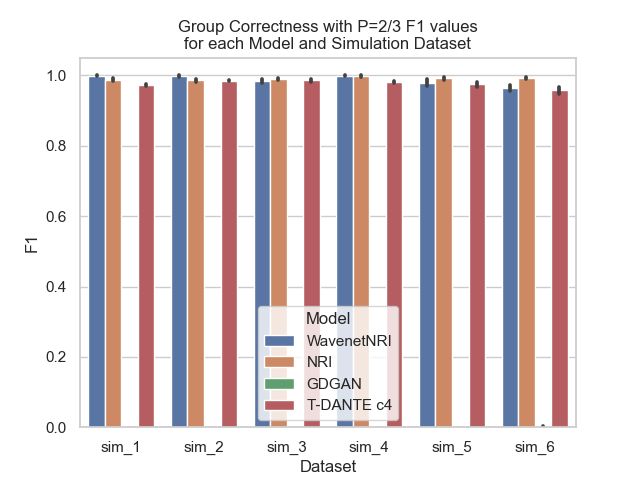
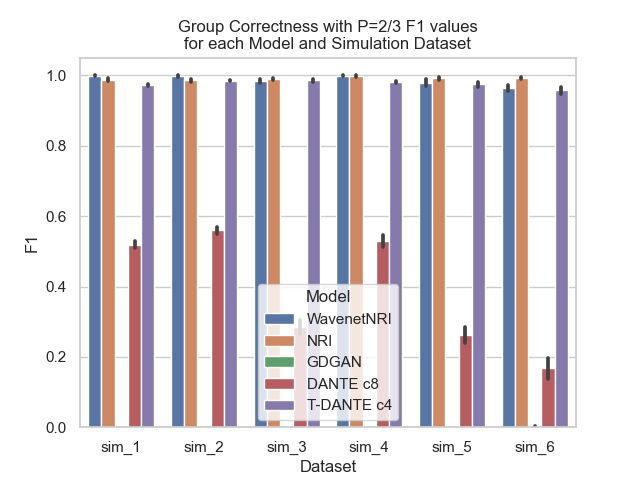
updated latex tables + pngs

diff --git a/models/plotter.py b/models/plotter.py
@@ -212,7 +212,7 @@ if __name__ == '__main__':
     sim_nri_results = []
     sim_nc_results = []
     sim_nc_gd_results = []
-    # sim_dante_results = []
+    sim_dante_results = []
     sim_tdante_results = []
     sim_tdante_gd_results = []
 
@@ -243,9 +243,9 @@ if __name__ == '__main__':
                     ((dataset, frames_num, agents_num), collect_results(results_path_gd, 'e150_nc', average=False)))
 
     for dataset in sim_datasets:
-        # sim_dante_results.append((
-        #     (dataset, 1, 10),
-        #     collect_sim_results('./results/{}_shifted_1_{}'.format(dataset, 10), 'e50', average=False)))
+        sim_dante_results.append((
+            (dataset, 1, 10),
+            collect_sim_results('./results/{}_shifted_1_{}'.format(dataset, 10), 'e50', average=False)))
         for agents_num in [6, 10]:
             frames_num = 49
             if dataset in ['sim_4', 'sim_5', 'sim_6']:
@@ -286,7 +286,7 @@ if __name__ == '__main__':
     sim_gdgan_results = create_nri_df(sim_gdgan_results, 'gdgan')
     sim_nc_results = create_df(sim_nc_results)
     sim_nc_gd_results = create_df(sim_nc_gd_results)
-    # sim_dante_results = create_df(sim_dante_results)
+    sim_dante_results = create_df(sim_dante_results)
     sim_tdante_results = create_df(sim_tdante_results)
     sim_tdante_gd_results = create_df(sim_tdante_gd_results)
 
@@ -304,7 +304,7 @@ if __name__ == '__main__':
     sim_gdgan_results = modify_sim_df(sim_gdgan_results, name='GDGAN', fix_datasets=True, suffix='gdgan')
     sim_nc_results = modify_sim_df(sim_nc_results, no_context=True)
     sim_nc_gd_results = modify_sim_df(sim_nc_gd_results, no_context=True, model='gd')
-    # sim_dante_results = modify_sim_df(sim_dante_results, name='DANTE', single_frame=True)
+    sim_dante_results = modify_sim_df(sim_dante_results, name='DANTE', single_frame=True)
     sim_tdante_results = modify_sim_df(sim_tdante_results)
     sim_tdante_gd_results = modify_sim_df(sim_tdante_gd_results, model='gd')
 
@@ -319,7 +319,7 @@ if __name__ == '__main__':
     bas_sim = pd.concat([sim_wavenet_results,
                          sim_nri_results,
                          sim_gdgan_results,
-                         # sim_dante_results,
+                         sim_dante_results,
                          sim_tdante_results])
     bas_sim = bas_sim[~bas_sim['name'].isin(['T-DANTE c8'])]
 

diff --git a/models/latex/bas_sim_f1_23.tex b/models/latex/bas_sim_f1_23.tex
@@ -10,6 +10,11 @@
         & 0.0             & 0.0             & 0.0             & 0.0             & 0.0             & 0.001           \\
         \multicolumn{1}{|c|}{} & $\pm$0.0        & $\pm$0.0        & $\pm$0.0        & $\pm$0.0        & $\pm$0.0        & $\pm$0.001      \\ \hline
         \multicolumn{1}{|c|}{\multirow{2}{*}{\begin{tabular}[c]{@{}c@{}}
+                                                 DANTE
+        \end{tabular}}}
+        & 0.5189          & 0.5601          & 0.284           & 0.5299          & 0.2621          & 0.1677          \\
+        \multicolumn{1}{|c|}{} & $\pm$0.0089     & $\pm$0.0092     & $\pm$0.0197     & $\pm$0.0161     & $\pm$0.0221 & $\pm$0.0288 \\ \hline
+        \multicolumn{1}{|c|}{\multirow{2}{*}{\begin{tabular}[c]{@{}c@{}}
                                                  NRI
         \end{tabular}}}
         & 0.9886          & 0.987           & \textbf{0.9906} & 0.9985          & \textbf{0.9922} & \textbf{0.9932} \\

diff --git a/models/latex/bas_sim_f1_1.tex b/models/latex/bas_sim_f1_1.tex
@@ -10,6 +10,11 @@
         & 0.0            & 0.0             & 0.0             & 0.0             & 0.0             & 0.0             \\
         \multicolumn{1}{|c|}{} & $\pm$0.0       & $\pm$0.0        & $\pm$0.0        & $\pm$0.0        & $\pm$0.0        & $\pm$0.0        \\ \hline
         \multicolumn{1}{|c|}{\multirow{2}{*}{\begin{tabular}[c]{@{}c@{}}
+                                                 DANTE
+        \end{tabular}}}
+        & 0.2155         & 0.1978          & 0.0955          & 0.1992          & 0.0804          & 0.0408          \\
+        \multicolumn{1}{|c|}{} & $\pm$0.0075    & $\pm$0.0079     & $\pm$0.0108     & $\pm$0.0108     & $\pm$0.0107 & $\pm$0.0075 \\ \hline
+        \multicolumn{1}{|c|}{\multirow{2}{*}{\begin{tabular}[c]{@{}c@{}}
                                                  NRI
         \end{tabular}}}
         & 0.9837         & 0.9828          & \textbf{0.9884} & 0.9961          & \textbf{0.9897} & \textbf{0.9885} \\

diff --git a/models/latex/bas_sim_f1_gmitre.tex b/models/latex/bas_sim_f1_gmitre.tex
@@ -10,6 +10,11 @@
         & 0.0067          & 0.0031          & 0.0411          & 0.0024          & 0.0278         & 0.092           \\
         \multicolumn{1}{|c|}{} & $\pm$0.0        & $\pm$0.0003     & $\pm$0.0        & $\pm$0.0003     & $\pm$0.0       & $\pm$0.0        \\ \hline
         \multicolumn{1}{|c|}{\multirow{2}{*}{\begin{tabular}[c]{@{}c@{}}
+                                                 DANTE
+        \end{tabular}}}
+        & 0.717           & 0.7012          & 0.518           & 0.7117          & 0.5272         & 0.4246          \\
+        \multicolumn{1}{|c|}{} & $\pm$0.0041     & $\pm$0.0035     & $\pm$0.011      & $\pm$0.0046     & $\pm$0.007 & $\pm$0.0089 \\ \hline
+        \multicolumn{1}{|c|}{\multirow{2}{*}{\begin{tabular}[c]{@{}c@{}}
                                                  NRI
         \end{tabular}}}
         & 0.9915          & 0.9934          & \textbf{0.9946} & 0.9986          & \textbf{0.994} & \textbf{0.9948} \\
